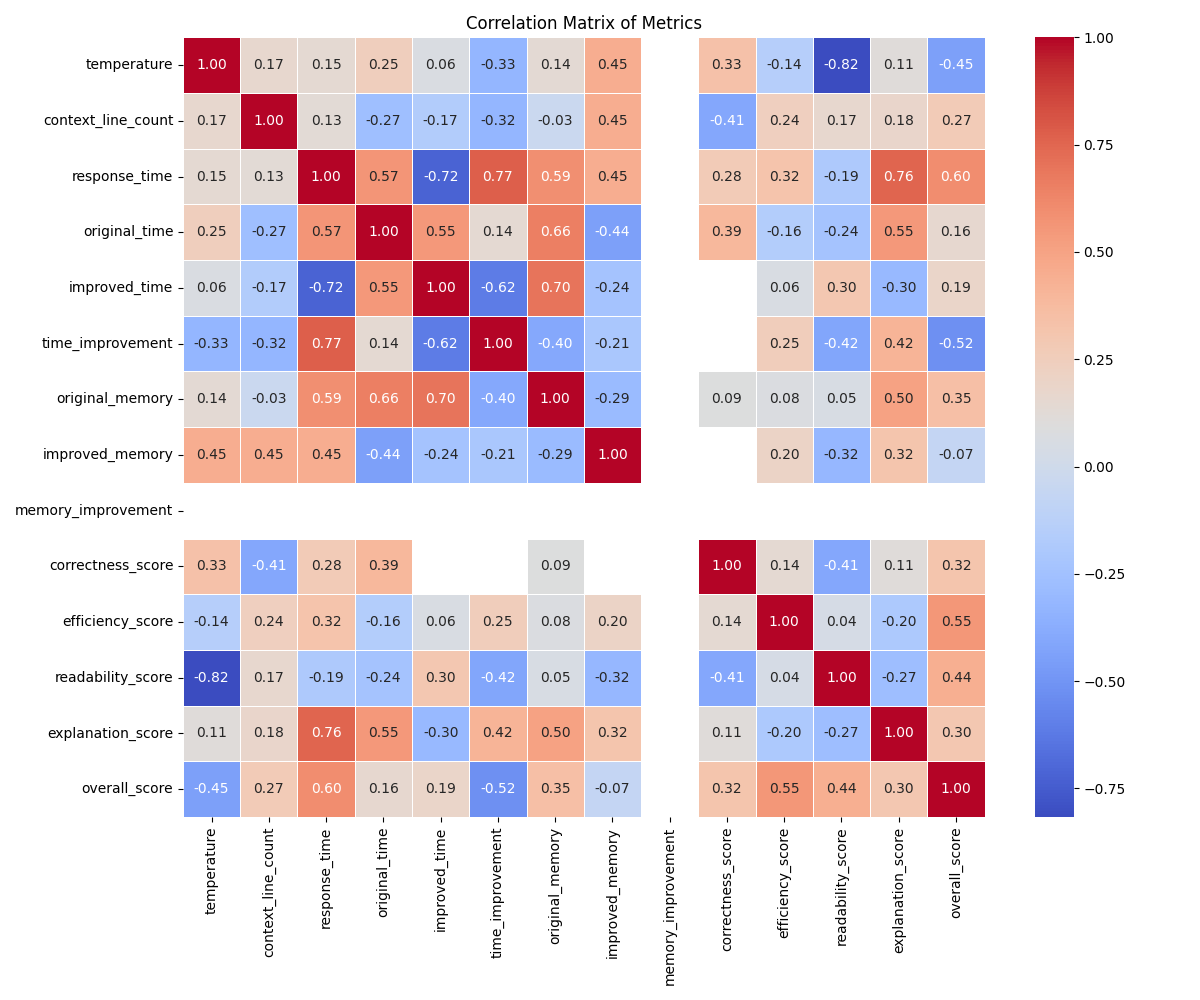
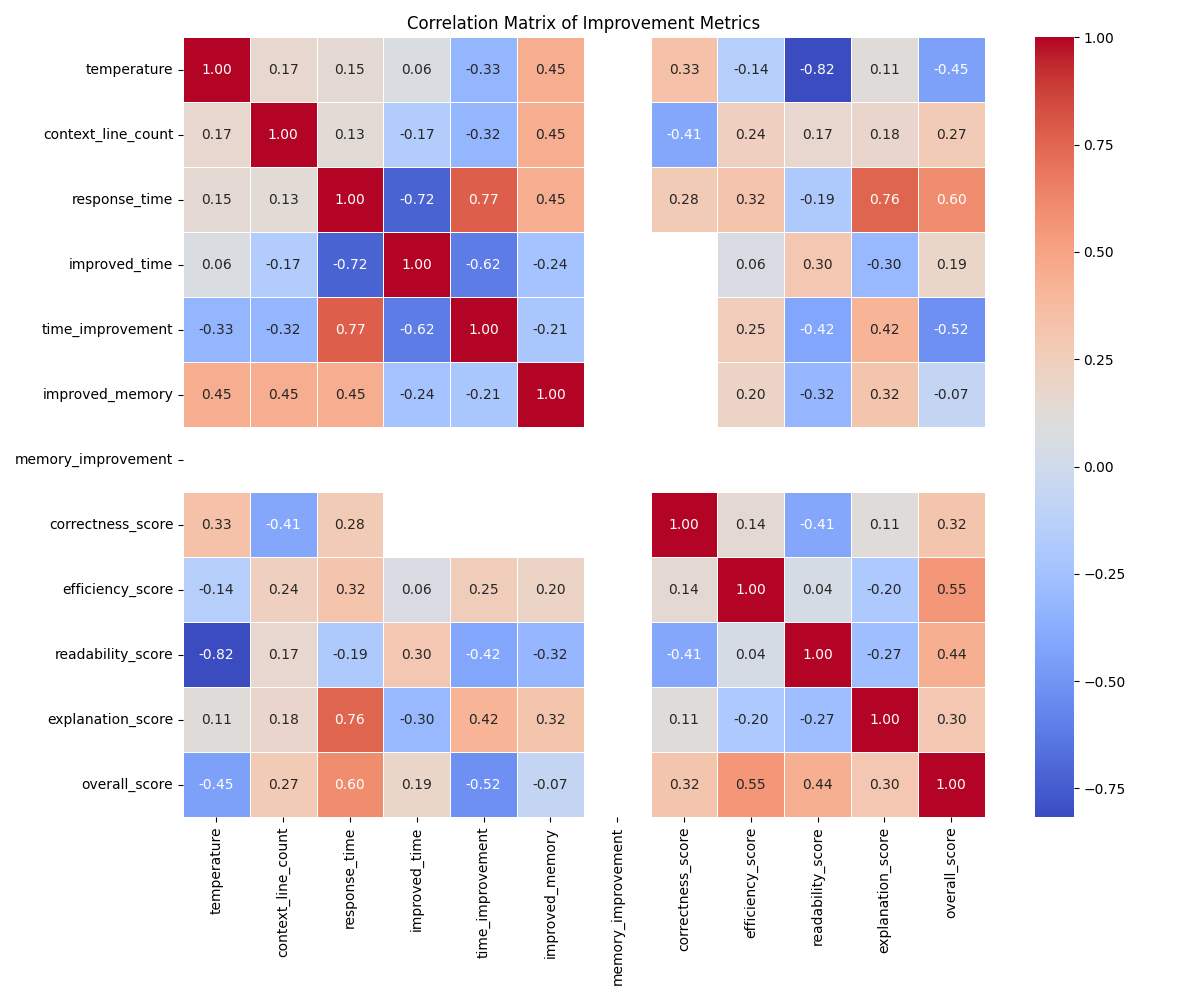
improved quality score visualization

diff --git a/src/reviewProvider.ts b/src/reviewProvider.ts
@@ -16,11 +16,11 @@ export class ReviewProvider {
   private systemMessage: string =
     "You are a code review assistant who is an expert at reviewing code and suggesting improvements.";
   private humanMessage: string =
-    "Improve the specified code based on information given. Format your answer as markdown.";
+    "Improve the specified code based on the information given. I need you to think step-by-step and show your work.\n\nStep 1: Understand the Goal: Briefly restate what the original code does and what the goal of the improvement is based on the provided information.\nStep 2: Identify Problems/Opportunities: Examine the original code line-by-line or section-by-section. What specific parts violate the requirements or could be done better (e.g., inefficient loop, unclear variable name, missing validation)? List them.\nStep 3: Devise Solutions: For each problem identified in Step 2, outline the specific change you will make. Why is this the right fix? Are there alternatives you considered?\nStep 4: Construct the Improved Code: Write the new version of the code integrating the solutions from Step 3.\nStep 5: Explain the Result: Compare the new code to the old. Highlight the key changes and explain how they fulfill the requirements and lead to better code.\n\nEnsure your response follows these steps clearly. Format the entire output, including all steps and the final code, using markdown.";
 
   constructor() {
     this.model = new Ollama({
-      model: "codellama:7b",
+      model: "qwen2.5-coder:7b",
       numGpu: 1,
       temperature: 0.5,
     });

diff --git a/media/main.js b/media/main.js
@@ -90,9 +90,6 @@ function addCopyButton(block, index) {
 function highlightSyntax(element) {
   // Add a class for styling
   element.classList.add("code-block");
-
-  // You could implement more sophisticated syntax highlighting here
-  // or use a library like highlight.js in a production extension
 }
 
 // Set up event listeners once the DOM is ready

diff --git a/src/experiment/visualize_results.py b/src/experiment/visualize_results.py
@@ -134,7 +134,7 @@ def plot_memory_improvement_by_stage(df: pd.DataFrame, output_dir: Path):
 
 
 def plot_quality_scores_by_stage(df: pd.DataFrame, output_dir: Path):
-    """Plot quality scores by stage."""
+    """Plot quality scores by stage, properly averaging across models with valid metrics."""
     plt.figure(figsize=(14, 10))
     
     # Melt the DataFrame to get all scores in one column
@@ -146,18 +146,68 @@ def plot_quality_scores_by_stage(df: pd.DataFrame, output_dir: Path):
         value_name="score"
     )
     
-    # Create a grouped bar chart
-    sns.barplot(x="stage", y="score", hue="metric", data=melted_df)
+    # Remove rows with NaN scores
+    melted_df = melted_df.dropna(subset=["score"])
     
-    plt.title("Quality Scores by Stage")
+    # Create a summary DataFrame that shows the number of models with valid metrics for each stage
+    models_per_stage = melted_df.groupby(["stage", "metric"]).size().reset_index(name="model_count")
+    
+    # Group by stage and metric, and calculate mean score
+    aggregated_df = melted_df.groupby(["stage", "metric"])["score"].mean().reset_index()
+    
+    # Merge with model count information
+    aggregated_df = pd.merge(aggregated_df, models_per_stage, on=["stage", "metric"])
+    
+    # Create a grouped bar chart with the aggregated data
+    plt.figure(figsize=(16, 12))
+    
+    # Main plot for scores
+    ax = plt.subplot(111)
+    bars = sns.barplot(x="stage", y="score", hue="metric", data=aggregated_df, ax=ax)
+    
+    # Add text annotations showing how many models contributed to each bar
+    for i, bar in enumerate(bars.patches):
+        # Get the index in the aggregated_df that corresponds to this bar
+        idx = i % len(aggregated_df)
+        # Get the model count for this bar
+        model_count = aggregated_df.iloc[idx]["model_count"]
+        # Add text annotation
+        height = bar.get_height()
+        ax.text(bar.get_x() + bar.get_width()/2., height + 0.1,
+                f'n={model_count}', ha='center', va='bottom', fontsize=8)
+    
+    plt.title("Average Quality Scores by Stage (Across Models with Valid Metrics)")
     plt.xlabel("Stage")
-    plt.ylabel("Score (1-10)")
+    plt.ylabel("Average Score (1-10)")
     plt.grid(True, alpha=0.3)
     plt.legend(title="Metric")
     
     # Save the plot
     plt.tight_layout()
     plt.savefig(output_dir / "quality_scores_by_stage.png")
+    plt.close()
+    
+    # Create a second plot showing scores by stage and model
+    plt.figure(figsize=(18, 12))
+    g = sns.catplot(
+        data=melted_df, 
+        x="stage", 
+        y="score", 
+        hue="model", 
+        col="metric",
+        kind="bar",
+        height=5, 
+        aspect=0.8,
+        sharey=True,
+        col_wrap=3
+    )
+    g.set_axis_labels("Stage", "Score (1-10)")
+    g.set_titles("{col_name}")
+    g.fig.suptitle("Quality Scores by Stage, Model, and Metric", y=1.02, fontsize=16)
+    
+    # Save the detailed plot
+    plt.tight_layout()
+    plt.savefig(output_dir / "quality_scores_detailed.png")
     plt.close()
 
 
@@ -202,16 +252,21 @@ def plot_model_comparison(df: pd.DataFrame, output_dir: Path):
 
 def plot_correlation_matrix(df: pd.DataFrame, output_dir: Path):
     """Plot correlation matrix between different metrics."""
-    # Select numeric columns
+    # Select numeric columns and exclude original metrics
     numeric_df = df.select_dtypes(include=['float64', 'int64'])
     
+    # Remove original_time and original_memory as they're not useful for correlation analysis
+    # since they're the same for all improvements of the same function
+    columns_to_exclude = ['original_time', 'original_memory']
+    analysis_df = numeric_df.drop(columns=[col for col in columns_to_exclude if col in numeric_df.columns])
+    
     # Calculate correlation matrix
-    corr_matrix = numeric_df.corr()
+    corr_matrix = analysis_df.corr()
     
     # Plot heatmap
     plt.figure(figsize=(12, 10))
     sns.heatmap(corr_matrix, annot=True, cmap="coolwarm", fmt=".2f", linewidths=0.5)
-    plt.title("Correlation Matrix of Metrics")
+    plt.title("Correlation Matrix of Improvement Metrics")
     
     # Save the plot
     plt.tight_layout()

diff --git a/test_code.py b/test_code.py
@@ -55,9 +55,6 @@ def find_duplicates(data: List[int]) -> List[int]:
     """
     Find duplicate values in a list of integers.
     
-    This function is intentionally implemented inefficiently using
-    repeated list iterations and unnecessary operations.
-    
     Args:
         data: List of integers
         

diff --git a/src/experiment/README.md b/src/experiment/README.md
@@ -5,6 +5,7 @@ This framework is designed to evaluate the performance of various LLM models in 
 ## Overview
 
 The experiment framework evaluates:
+
 1. **Time and space complexity** of code produced by different models
 2. **Token usage** (via LangSmith integration)
 3. **Quality of responses** (using an LLM as a judge)
@@ -38,11 +39,13 @@ The experiment is structured into several stages, each testing different aspects
 ## Setup
 
 1. Install the required packages:
+
    ```bash
    pip install langchain langchain_community langsmith matplotlib pandas seaborn
    ```
 
 2. Set up LangSmith for token usage tracking (optional but recommended):
+
    ```bash
    export LANGCHAIN_TRACING_V2=true
    export LANGCHAIN_ENDPOINT=https://api.smith.langchain.com
@@ -55,8 +58,8 @@ The experiment is structured into several stages, each testing different aspects
    # Pull the required models
    ollama pull codellama:7b
    ollama pull qwen2.5-coder:7b
-   ollama pull qwq:32b
-   ollama pull deepseek-r1:32b
+   ollama pull deepseek-r1:7b
+   ollama pull llama3.2:3b
    ```
 
 ## Running Experiments
@@ -98,6 +101,7 @@ This will generate various visualizations and an HTML report in the `visualizati
 ### Results Structure
 
 Each experiment generates a JSON file with the following information:
+
 - Stage and model details
 - Response time
 - Improved code
@@ -124,6 +128,7 @@ Each experiment generates a JSON file with the following information:
 ### Visualizations
 
 The visualization script generates several plots:
+
 - Time improvement by stage and model
 - Memory improvement by stage and model
 - Quality scores by stage
@@ -133,12 +138,14 @@ The visualization script generates several plots:
 ## HTML Report
 
 The HTML report provides a comprehensive view of the experiment results, including:
+
 - Summary tables by stage and model
 - All visualizations embedded in one document
 
 ## Example Analysis
 
 When analyzing the results, consider questions like:
+
 - Which model performs best for code improvement in terms of efficiency?
 - Does chain-of-thought prompting (stage1) improve code quality?
 - Does additional context (stage2) help models generate better code?
@@ -148,6 +155,7 @@ When analyzing the results, consider questions like:
 ## Extending the Framework
 
 To extend this framework:
+
 1. Add new stages to `eval_stages.json`
 2. Add new models to the existing stages
 3. Modify the evaluation metrics in `run_experiments.py`
@@ -162,6 +170,7 @@ To extend this framework:
 ## Notes on Token Usage
 
 If LangSmith integration is enabled, you can view detailed token usage statistics in the LangSmith dashboard. This helps analyze:
+
 - Input token count per model and stage
 - Output token count per model and stage
 - Cost implications of different prompting strategies
